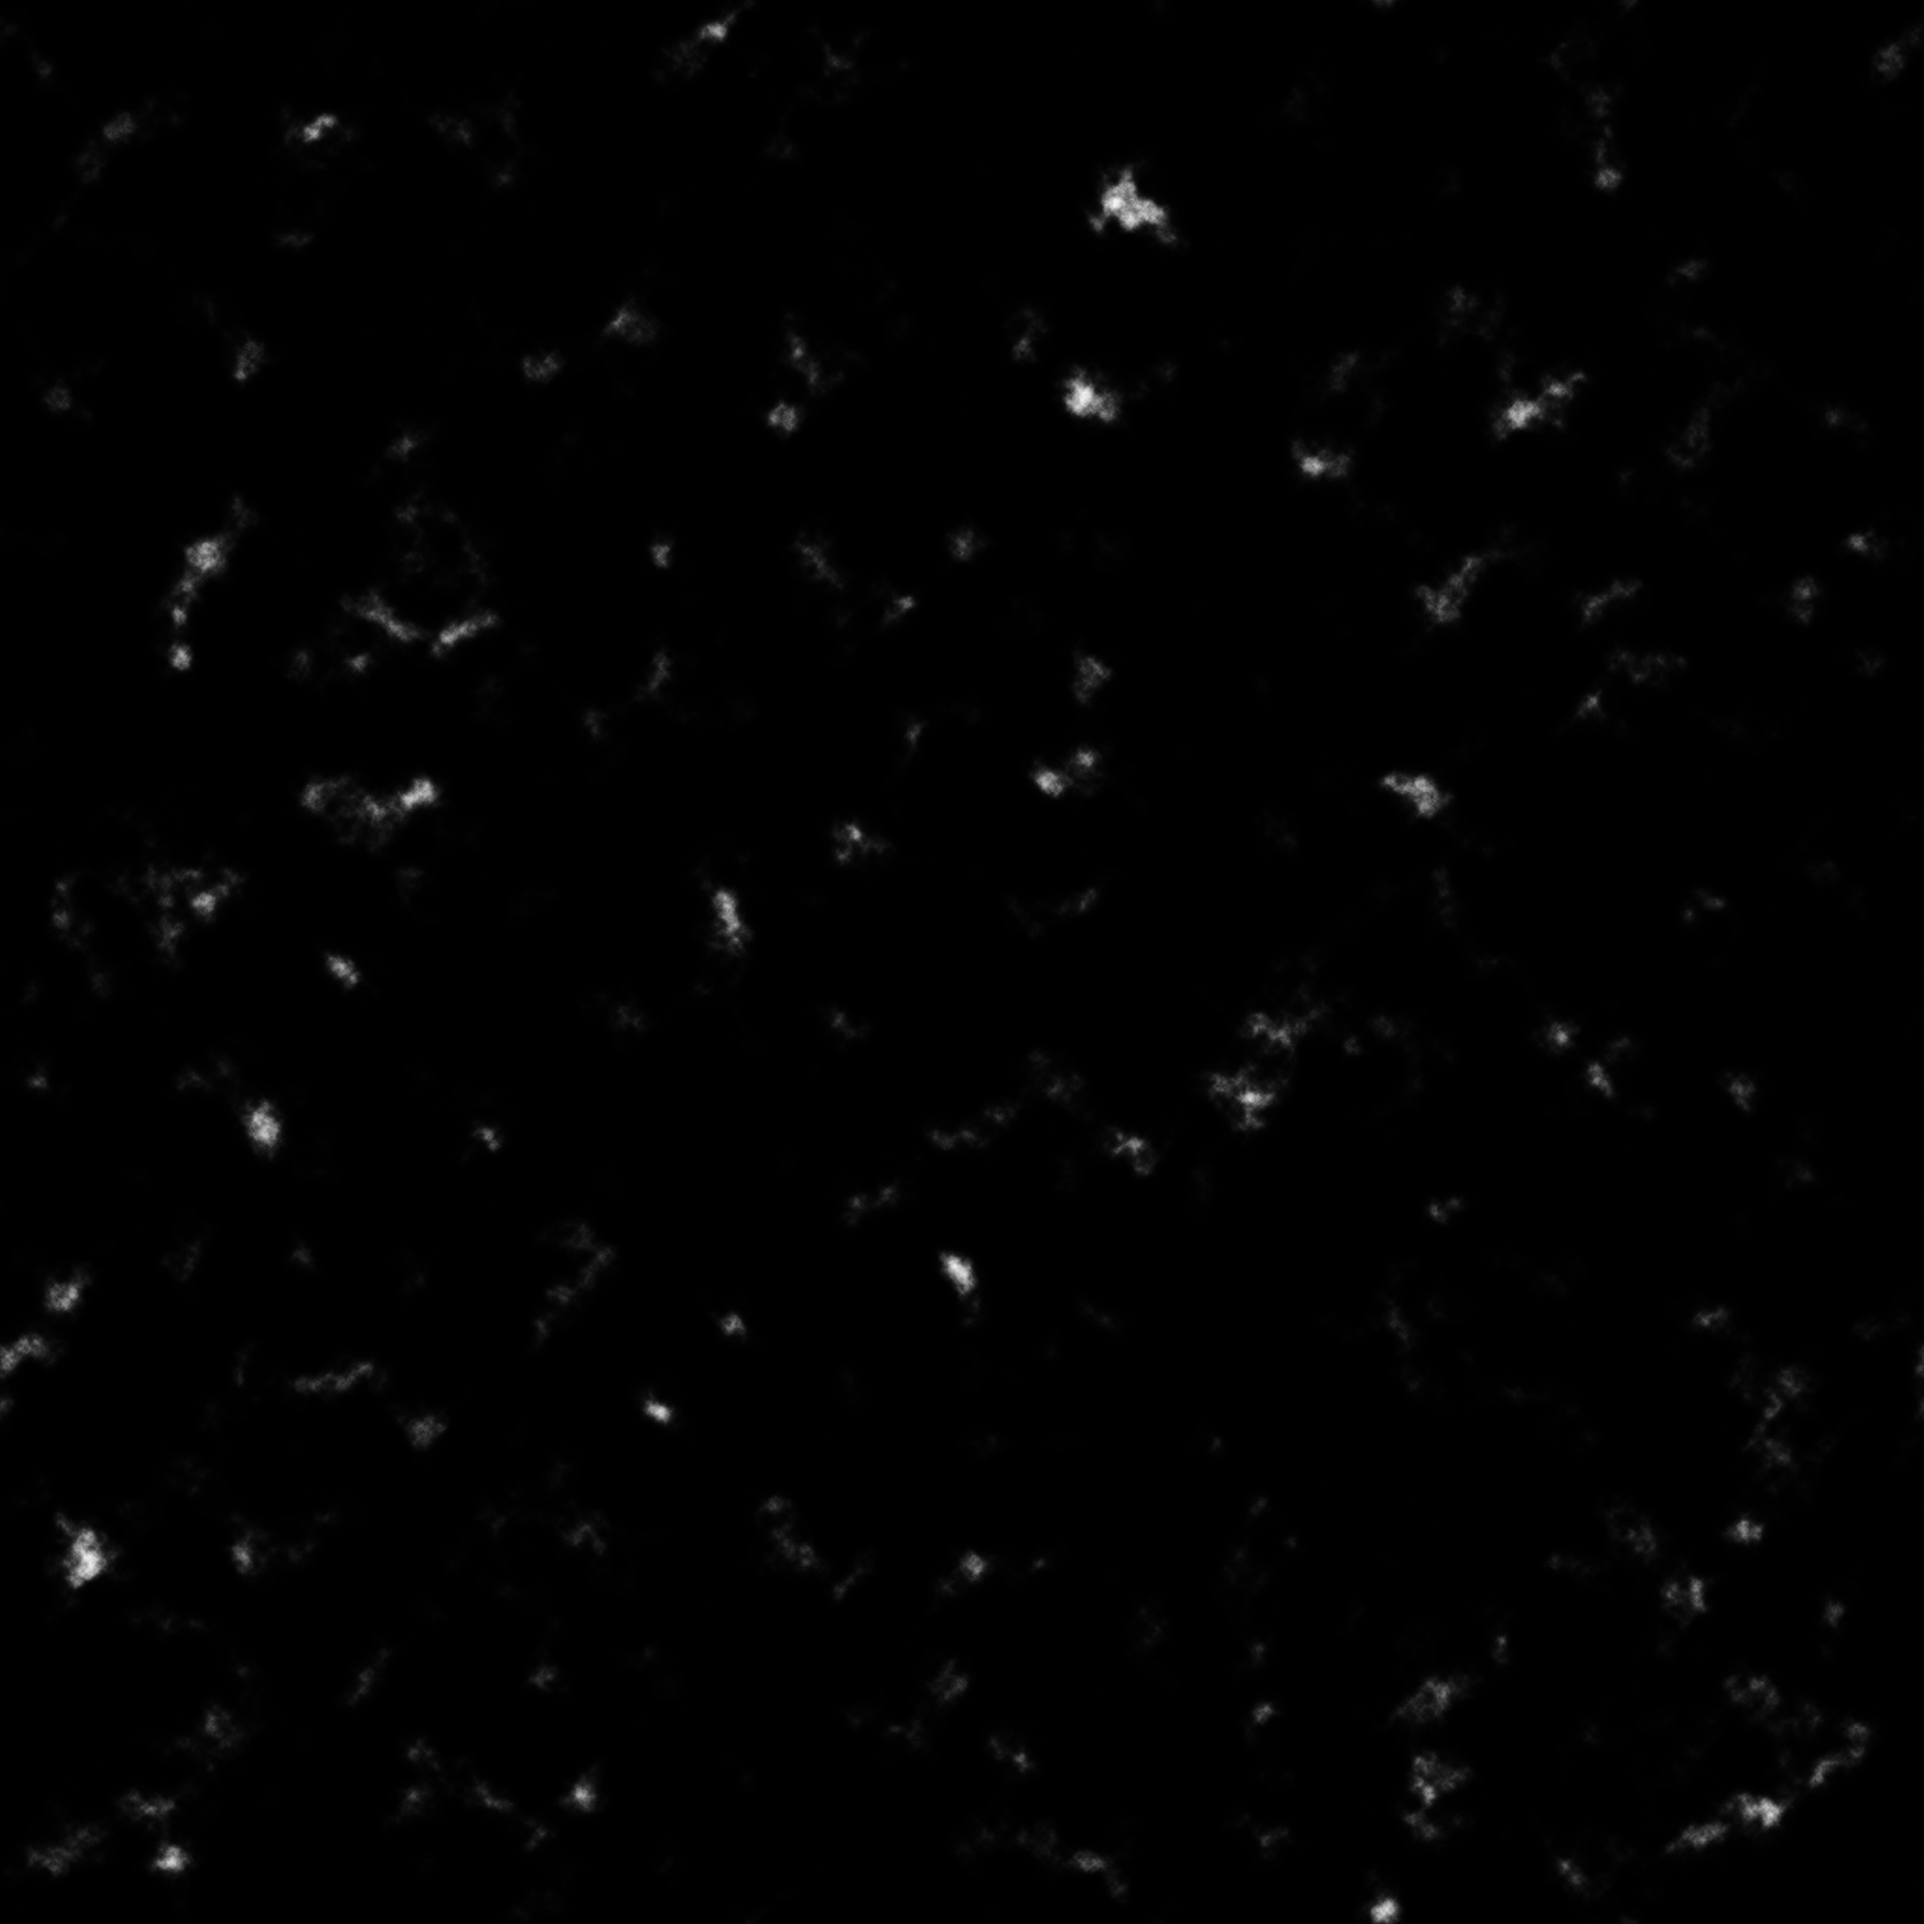
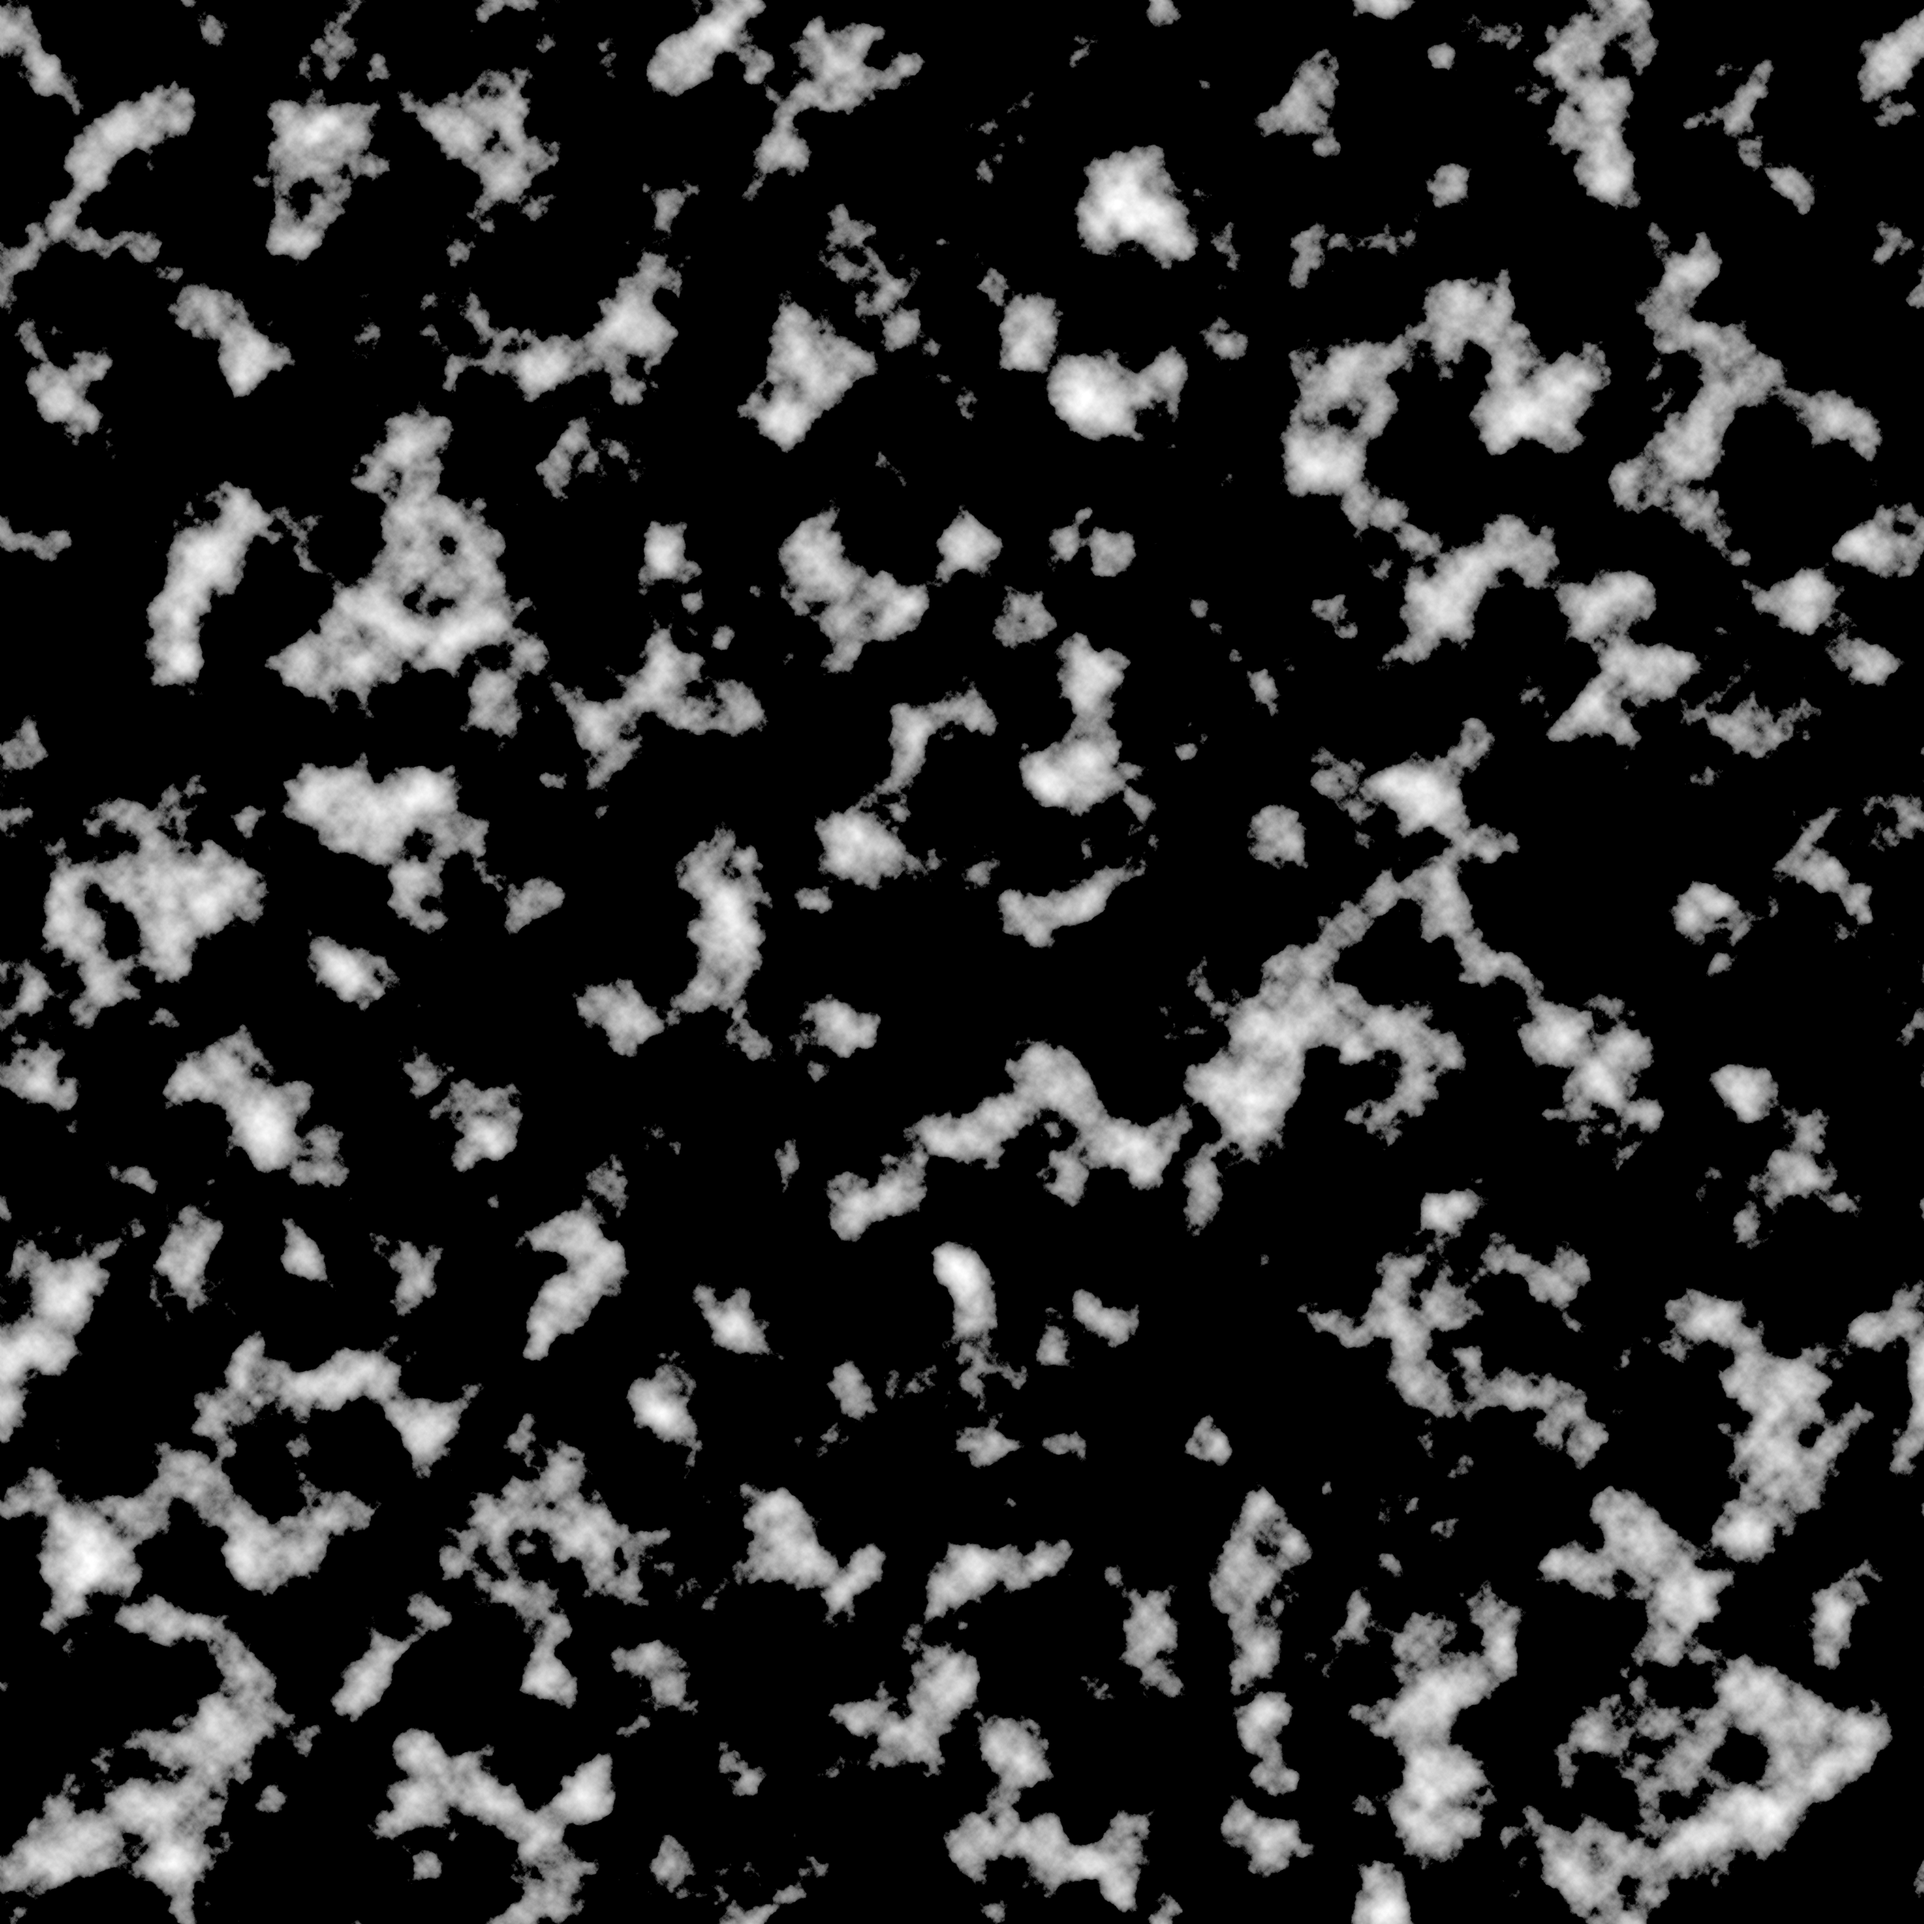
improvement of clouds
No more of the "shined light" issue

diff --git a/main.html b/main.html
@@ -104,7 +104,7 @@
         var water = createWaterPlane(37, 37, bufferObjectRefraction.texture, bufferObjectReflection.texture, bufferObjectRefraction.depthTexture);
         var box = createSimpleBox(1.0, 1.0, 1.0);
 		var sand = createSand(45, 45, -1.0);
-		var clouds = createClouds(20000,20000,100);
+		var clouds = createClouds(20000,20000,150);
 
         // add objects to the scene
         scene.add(box);

diff --git a/js/objects/cloud-scape.js b/js/objects/cloud-scape.js
@@ -4,7 +4,7 @@ function createClouds(x,y,h,clouds)
   var plane = new THREE.PlaneGeometry(x,y);
 
   var shaderInput = {
-    texture: {type: "t", value: new THREE.TextureLoader().load('images/Clouds/Cloud_Map_4.png')},
+    texture: {type: "t", value: new THREE.TextureLoader().load('images/Clouds/Cloud_Map_5.png')},
     rate: {type: "f", value: 0.0}
   }
 
